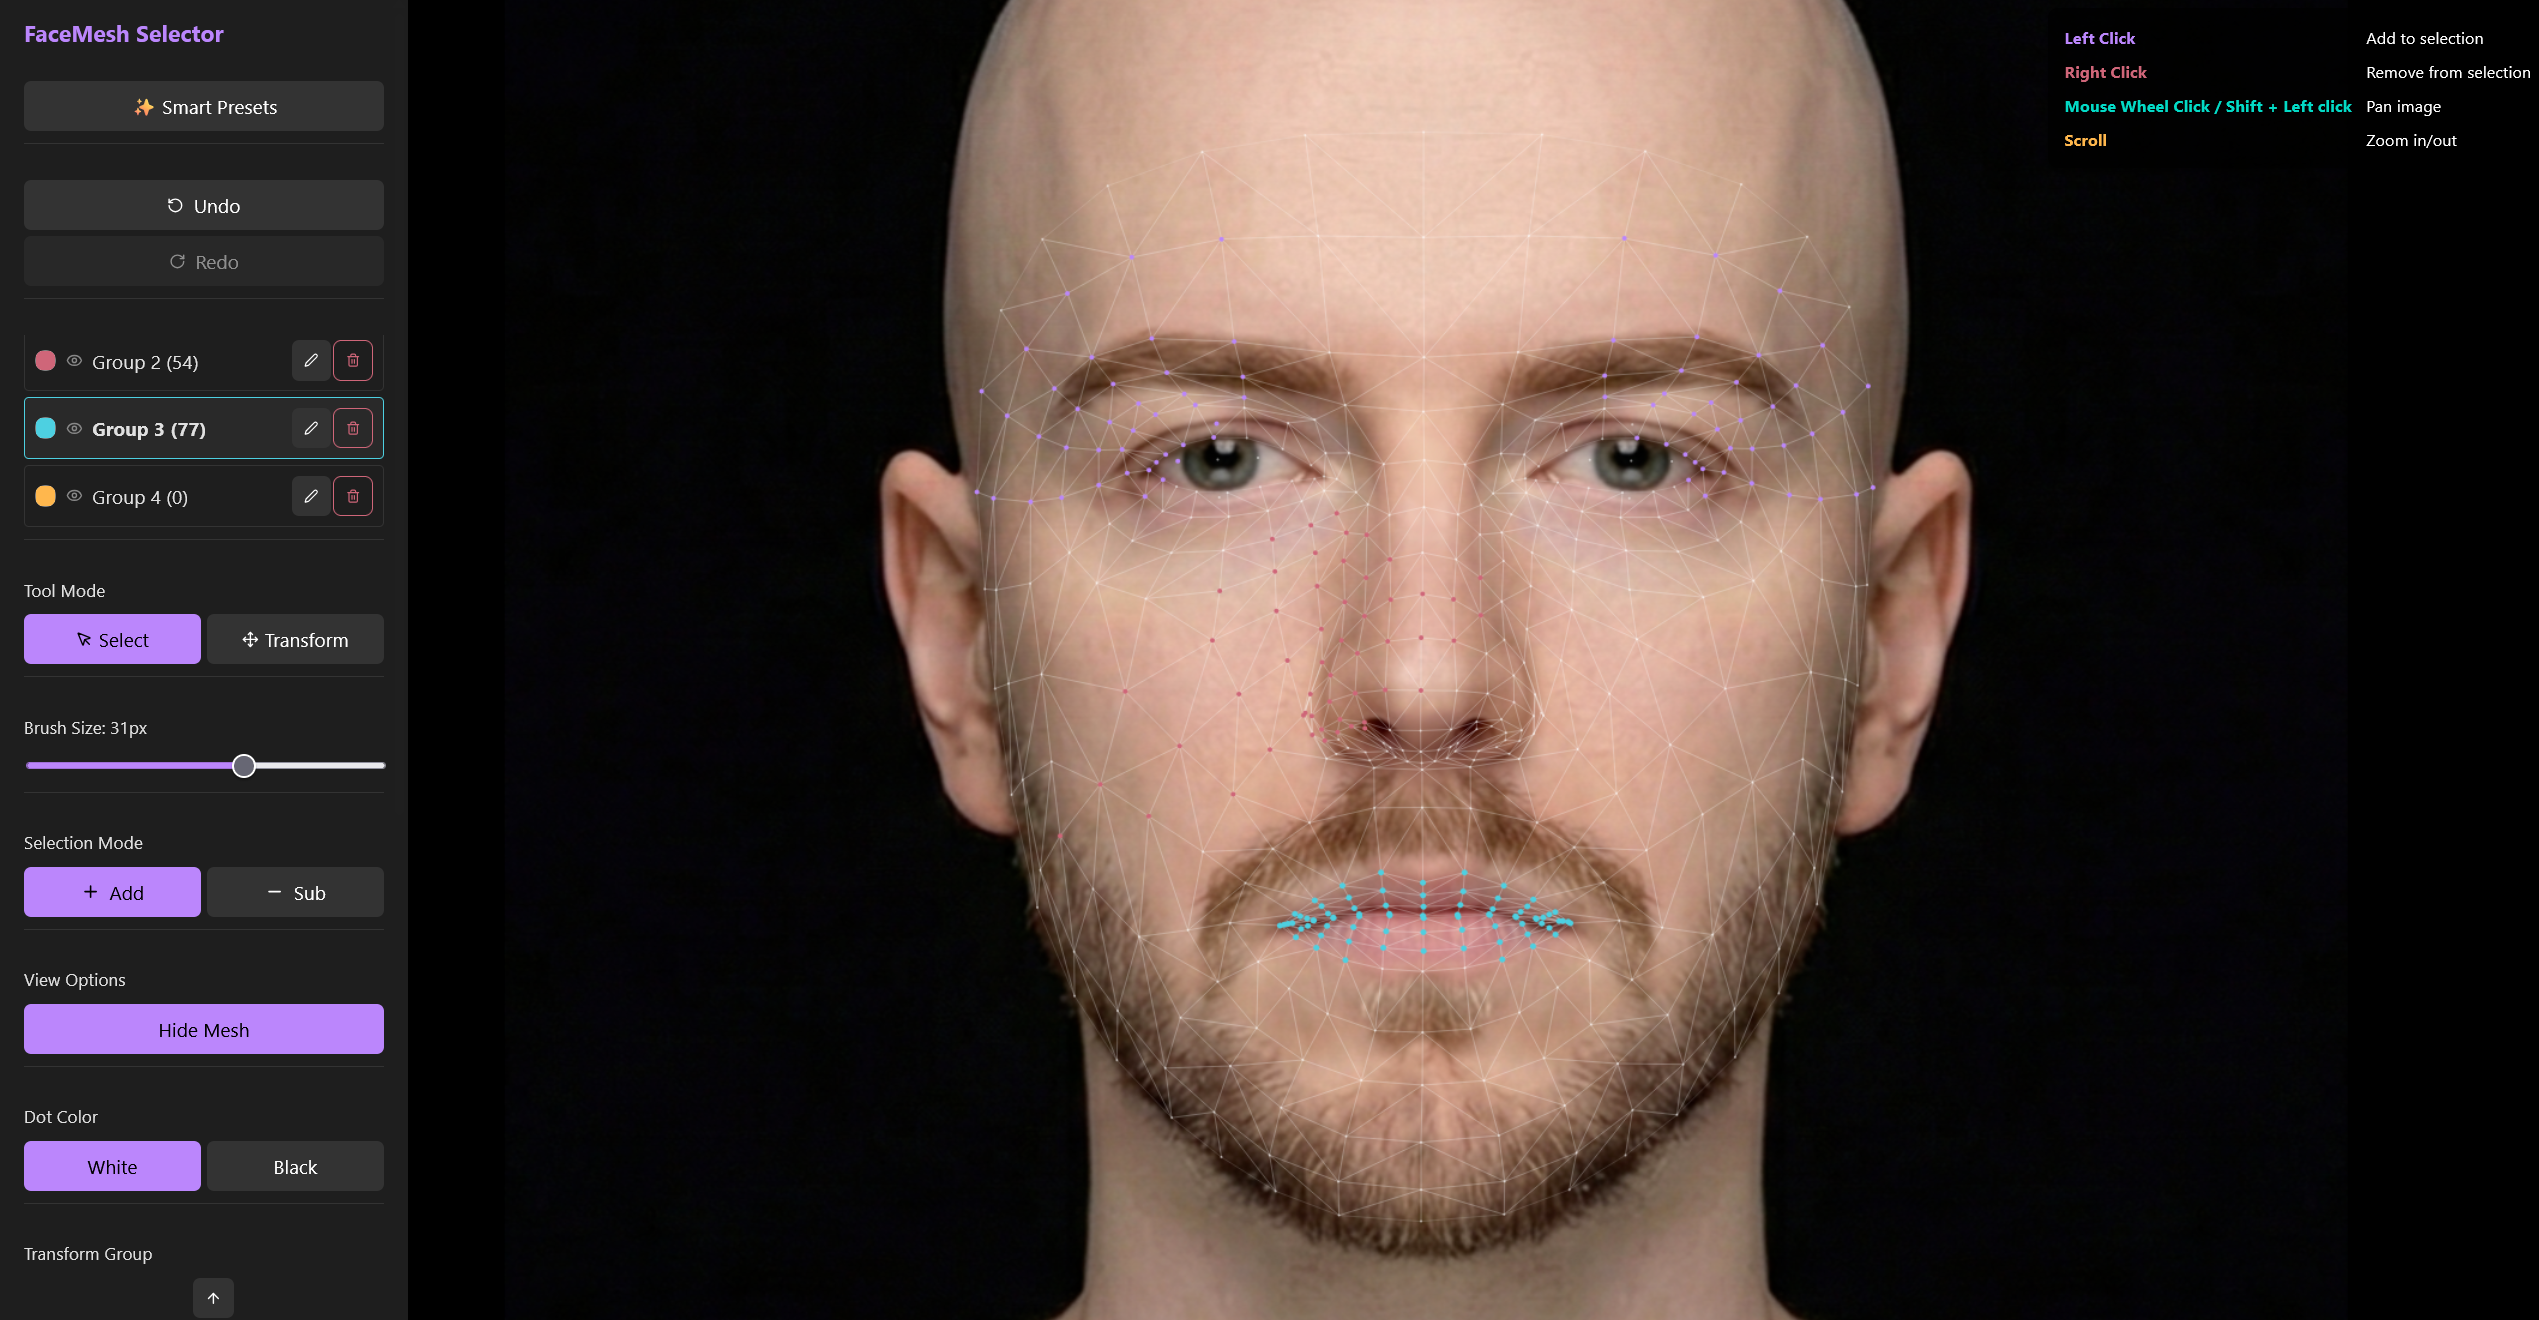
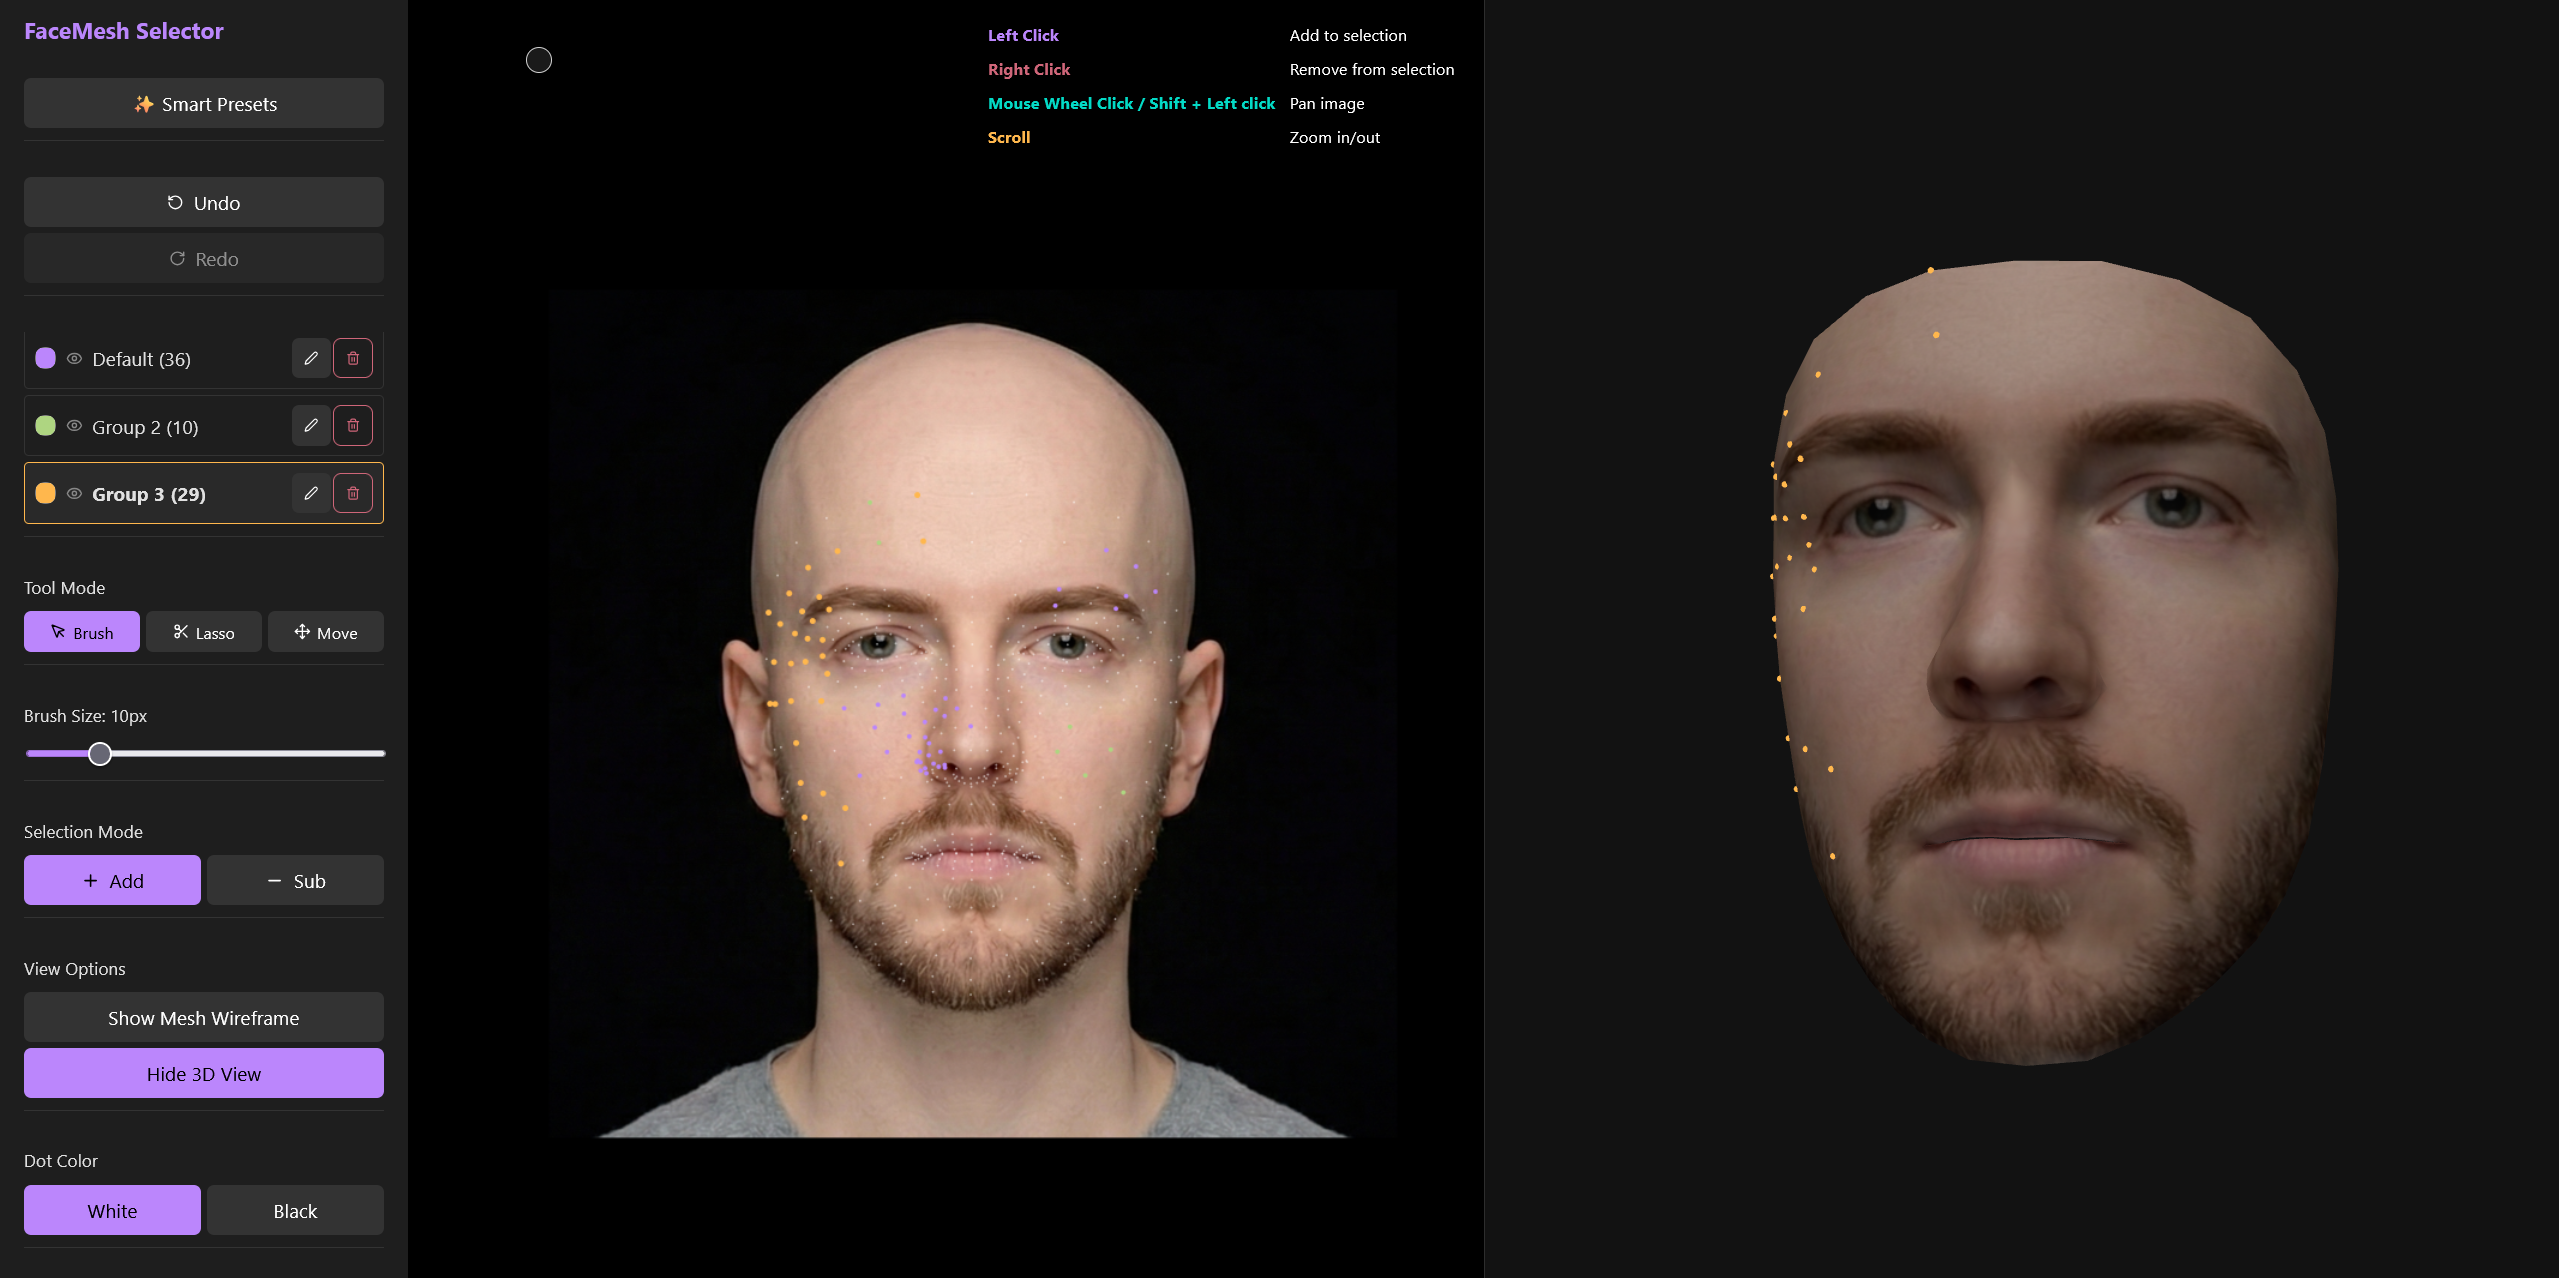
update

diff --git a/src/components/ThreeDPreview.tsx b/src/components/ThreeDPreview.tsx
@@ -53,7 +53,7 @@ export const ThreeDPreview: React.FC<ThreeDPreviewProps> = ({
             0.01,
             100
         );
-        camera.position.set(0, 0, 3);
+        camera.position.set(0, 0, 5.5);
         cameraRef.current = camera;
 
         const renderer = new THREE.WebGLRenderer({